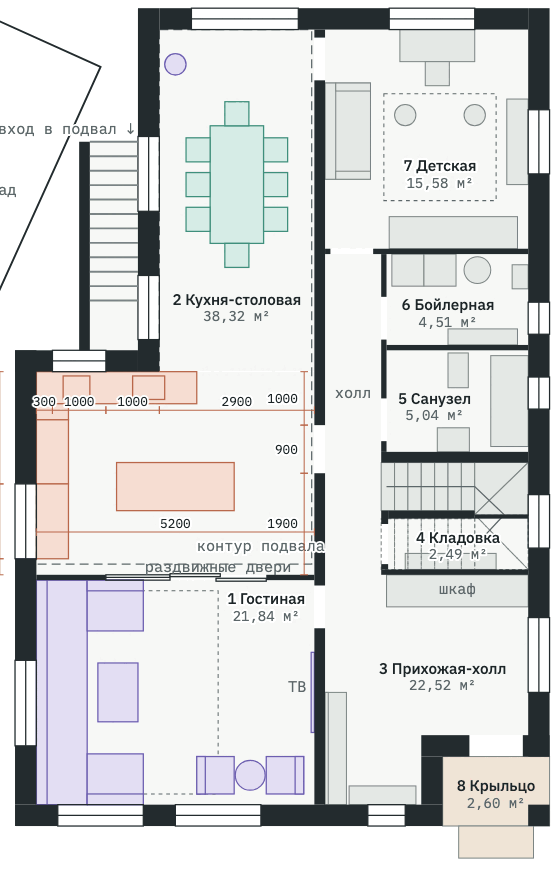
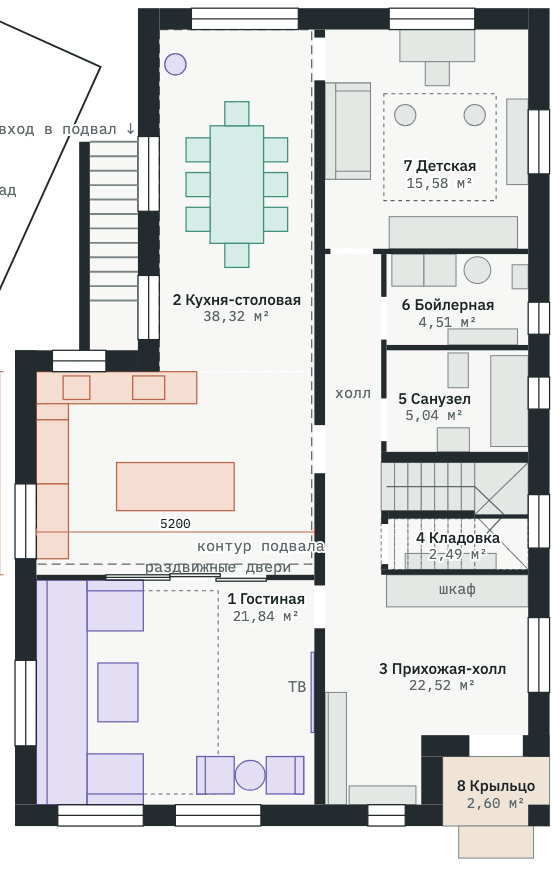
Variant 5: only the overall kitchen size on the plan, 5200 x 3800

diff --git a/dom/v5-dvuskatnaya.html b/dom/v5-dvuskatnaya.html
@@ -226,7 +226,7 @@ tr.out td{color:var(--muted)}
 <li><b>Стояки.</b> Плита лежит на грунте, поэтому слив кухни, санузла и бойлерной первого этажа уходит прямо вниз, трубы закладывают под плиту до заливки. Мастер-санузел второго этажа стоит над санузлом и бойлерной первого, его стояк проходит там. Унитаз общего санузла стоит у левой стены, его стояк спускается в кухонную колонну у левой стены.</li>
 <li><b>Спальня слева спереди</b> на месте кабинета и балкона, 5,2 × 4,25 м, 22,1 м². Балкона больше нет: стена с окном 2 м стоит по фасаду, как на первом этаже, над гостиной обычное перекрытие, гидроизоляция эксплуатируемой кровли не нужна. Вход из коридора в правом заднем углу. Кровать 1,6 × 2,0 м изголовьем к несущей стене, у стены коридора шкаф 2,3 м, у низкой левой стены под окнами в крыше комод, у окна на фасад кресло со столиком. У левой стены потолок 1,5 м, в 1,7 м от неё уже 2,5 м.</li>
 <li><b>План с размерами</b> — отдельная вкладка. На нём этаж без мебели: у каждого помещения внутренние ширина и глубина, по наружным стенам простенки, окна и двери и длина каждой стены, справа таблица размеров помещений. Составные комнаты записаны суммой прямоугольников.</li>
-<li><b>Размеры кухни</b> на плане первого этажа — только помещение, в мм по чистым стенам без отделки, мебель нарисована условно. Кухня 5200 × 3800, потолок 2800. Левая стена: 2100 от задней стены до окна, окно 1400 с подоконником на 1050, 300 до перегородки. Задняя стена: 300, окно 1000 с подоконником на 1050, 1000 глухой стены, дальше открытый проём в столовую 2900. Несущая стена справа: 1000, дверь в холл 900, 1900 до перегородки. Спереди перегородка с раздвижными стеклянными дверями на всю ширину. Перед заказом кухни нужен замер на месте.</li>
+<li><b>Размеры кухни</b> на плане первого этажа — только габариты помещения по чистым стенам без отделки: 5200 × 3800 мм, потолок 2800. Мебель нарисована условно, без размеров: кухонщики расставят её сами после своего замера. Окна: в левой стене 1400 мм, в задней 1000 мм, подоконники на 1050. Дверь в холл 900 мм, проём в столовую 2900 мм.</li>
 <li><b>Площади</b> посчитаны по модели по внутренним размерам комнат. Лестница с забежными ступенями, 18 подъёмов по 170 мм. Это схема для обсуждения, не рабочий чертёж.</li>
 </ul>
 </div>
@@ -428,10 +428,8 @@ drawPlan(document.getElementById('plan1'),{
  const T=(px,py,s,anc)=>{const e=el('text',{x:px,y:py,'text-anchor':anc||'middle',class:'kd halo'});e.textContent=s;return e;};
  const H=(x1,x2,y)=>{el('line',Object.assign({x1:X(x1),x2:X(x2),y1:Y(y),y2:Y(y)},ln));[x1,x2].forEach(x=>el('line',Object.assign({x1:X(x),x2:X(x),y1:Y(y)-3,y2:Y(y)+3},ln)));T((X(x1)+X(x2))/2,Y(y)-3,String(x2-x1));};
  const V=(y1,y2,px,side)=>{el('line',Object.assign({x1:px,x2:px,y1:Y(y1),y2:Y(y2)},ln));[y1,y2].forEach(y=>el('line',Object.assign({x1:px-3,x2:px+3,y1:Y(y),y2:Y(y)},ln)));T(px+(side<0?-5:5),(Y(y1)+Y(y2))/2+3.5,String(y2-y1),side<0?'end':'start');};
- /* только помещение: стены, окна, дверь и проём — мебель кухонщики расставят сами */
- H(-1600,-1300,7120);H(-1300,-300,7120);H(-300,700,7120);H(700,3600,7120);H(-1600,3600,9400);
- const xl=X(-2000)-12;[[6400,8500],[8500,9900],[9900,10200]].forEach(q=>V(q[0],q[1],xl,-1));V(6400,10200,xl-36,-1);
- const xr=X(3600)-8;[[6400,7400],[7400,8300],[8300,10200]].forEach(q=>V(q[0],q[1],xr,-1));
+ /* только габариты помещения — мебель кухонщики расставят сами после своего замера */
+ H(-1600,3600,9400);V(6400,10200,X(-2000)-12,-1);
 })();
 
 (function site(){
